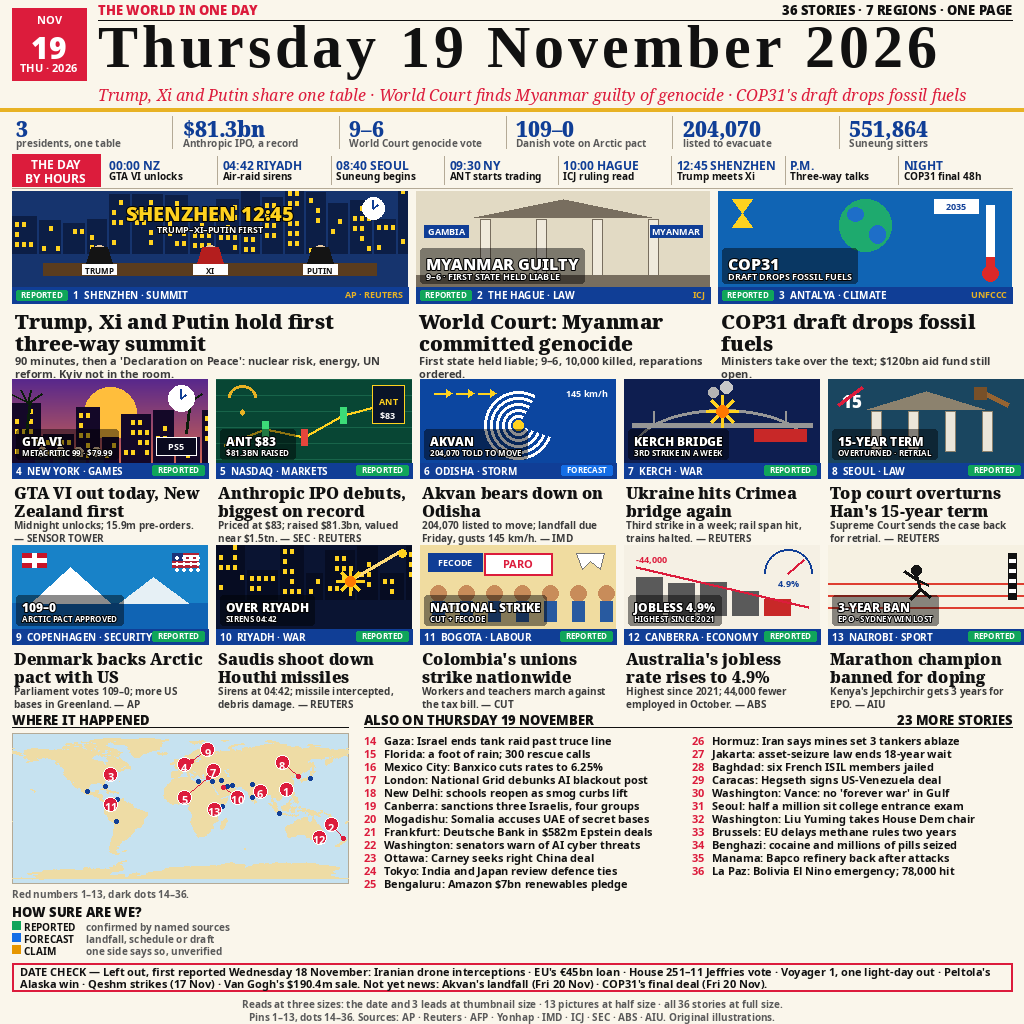
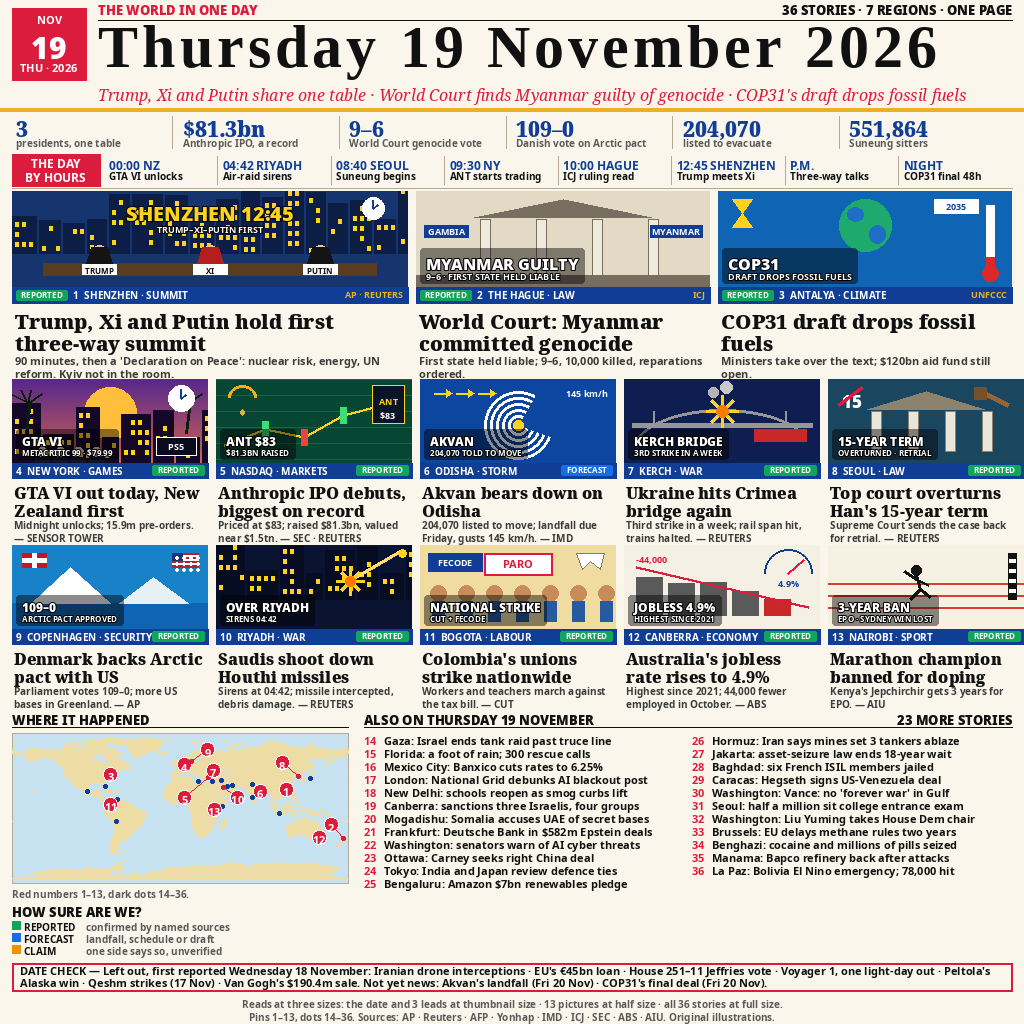
v18: red boxes bottom spacing balanced (timeline 5/5, DATE CHECK 4/4)

diff --git a/draw.py b/draw.py
@@ -24,6 +24,17 @@ biar teks terlihat jelas"):
     enlargement pushes heroes onward +5 more: stats 110, timeline 154,
     heroes 191, smalls 379, map 711, date check 963, footer 997, ending
     ~1020.
+v18 vs v17: user order 2026-11-20 16:04 WIB ("Okey bagus, untuk kotak garis
+merah bawah masih blm berjarak bagus tuh") — the bottom spacing of the two
+red boxes was still unbalanced (pixel-measured v17): timeline box "THE DAY"
+glyphs 160..168 / "BY HOURS" 174..182 in box 154..186 = 6px top / 4px
+bottom; DATE CHECK glyphs 968..976 / 980..988 in box 963..991 = 5px top /
+3px bottom. Both texts moved up 1px: timeline "THE DAY" 156 -> 155,
+"BY HOURS" 170 -> 169 (gaps 5/5); DATE CHECK lines dy+1 -> dy+0 and
+dy+13 -> dy+12 (gaps 4/4). No band shifts.
+NOTE: the first draw.py run right after an edit can render the pre-edit file
+(sizes matched the previous version in v15/v16/v18) — always verify with 2-3
+runs and take the later sha.
 Run: python3 draw.py  -> writes entry.png in this directory."""
 import json
 import math
@@ -681,8 +692,8 @@ def main():
 
     # ---- THE DAY BY HOURS timeline 154-186 ----
     d.rectangle([12, 154, 100, 186], fill=RED)
-    d.text((56, 156), "THE DAY", font=F_TTIME, fill="white", anchor="ma")
-    d.text((56, 170), "BY HOURS", font=F_TTIME, fill="white", anchor="ma")
+    d.text((56, 155), "THE DAY", font=F_TTIME, fill="white", anchor="ma")
+    d.text((56, 169), "BY HOURS", font=F_TTIME, fill="white", anchor="ma")
     bx = 104
     bw = (W - 12 - bx) / 8.0
     for i, (t, txt) in enumerate(TIMELINE):
@@ -794,7 +805,7 @@ def main():
            "(Fri 20 Nov) \u00b7 COP31's final deal (Fri 20 Nov).")
     clines = wrap(d, chk, F_DATECHK, 976, max_lines=2)
     for j, ln in enumerate(clines):
-        d.text((20, dy + 1 + j * 12), ln, font=F_DATECHK, fill=INK)
+        d.text((20, dy + j * 12), ln, font=F_DATECHK, fill=INK)
 
     # ---- footer 997-1020 ----
     fy = 997
